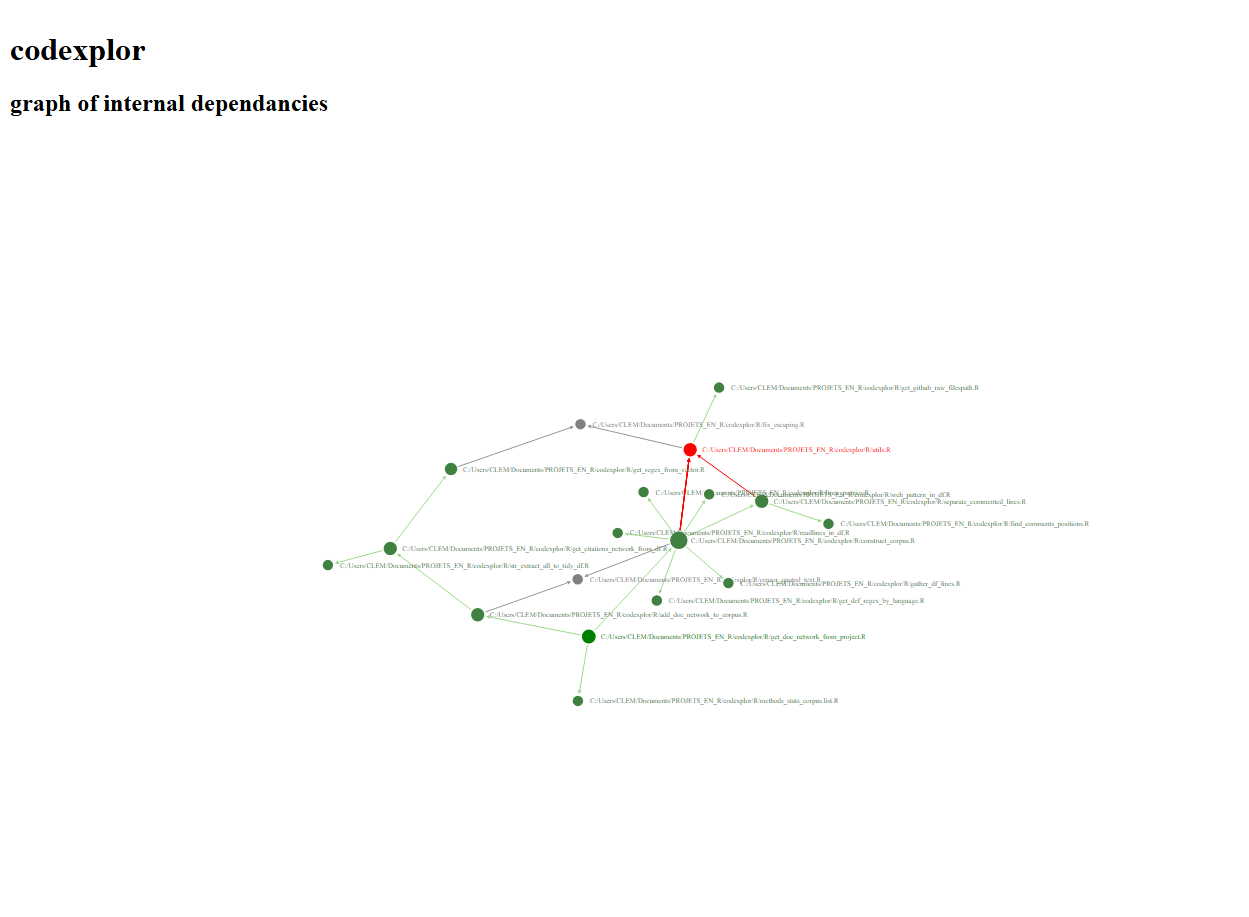
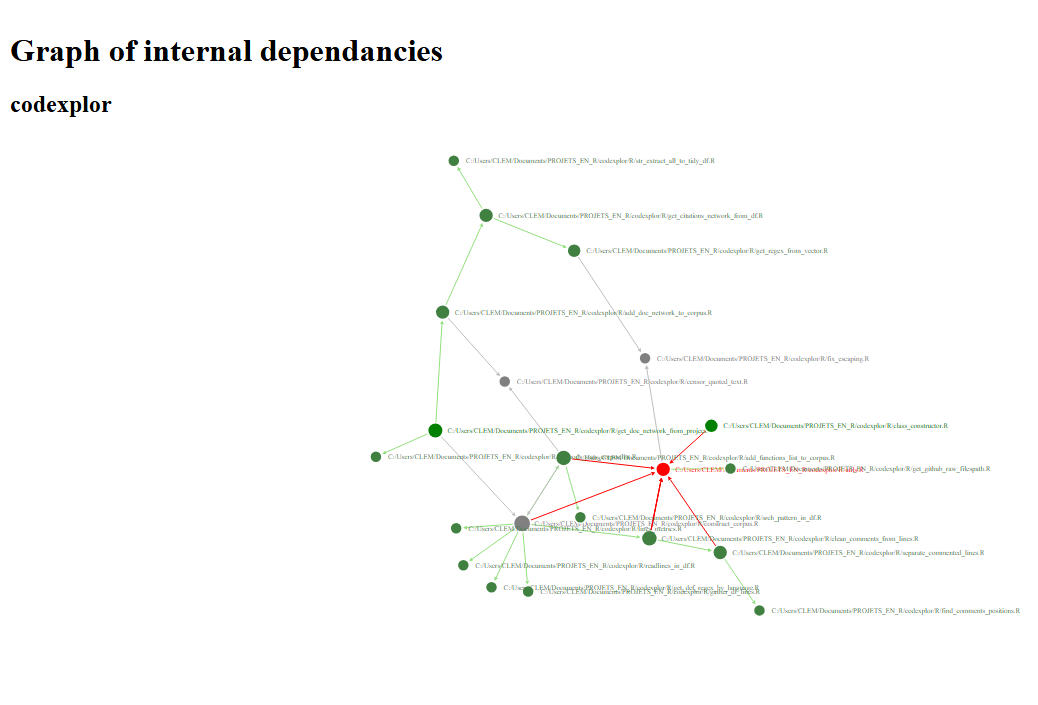
update readme

diff --git a/man/figures/network_codexplor_fn.html b/man/figures/network_codexplor_fn.html
@@ -1229,13 +1229,12 @@ return function(){for(var n=0,e=0;e<t;++e)n+=Math.random();return n}},um=functio
 </head>
 <body style="background-color: white;">
 <div id="htmlwidget_container">
-  <h1>codexplor</h1>
-  <h2>graph of internal dependancies</h2>
-  <div class="forceNetwork html-widget html-fill-item" id="htmlwidget-ac90f4d7289b88ae1a1c" style="width:960px;height:500px;"></div>
-  <div style="position:floating; top:10px; left:10px; background:white; padding:10px; border:0px;">
-  <strong>Colors (indegree)</strong><br></div>
+  <h1>Graph of internal dependancies</h1>
+  <h2>codexplor</h2>
+  <div class="forceNetwork html-widget html-fill-item" id="htmlwidget-4c94bd5046172d007002" style="width:960px;height:500px;"></div>
+  <h3>Color and links symbolize indegrees</h3>
 </div>
-<script type="application/json" data-for="htmlwidget-ac90f4d7289b88ae1a1c">{"x":{"links":{"source":[0,1,2,0,3,4,5,2,1,2,5,6,7,2,0,2,2,2,7,2,2,2,2,3,2],"target":[1,9,9,2,11,12,12,13,7,14,15,16,4,10,8,17,3,18,19,5,5,5,5,5,5],"colour":["#9CDA8A","#959595","#959595","#9CDA8A","#9CDA8A","#959595","#959595","#9CDA8A","#9CDA8A","#9CDA8A","#9CDA8A","#9CDA8A","#9CDA8A","#9CDA8A","#9CDA8A","#9CDA8A","#9CDA8A","#9CDA8A","#9CDA8A","#FF0000","#FF0000","#FF0000","#FF0000","#FF0000","#FF0000"]},"nodes":{"name":["C:/Users/CLEM/Documents/PROJETS_EN_R/codexplor/R/get_doc_network_from_project.R","C:/Users/CLEM/Documents/PROJETS_EN_R/codexplor/R/add_doc_network_to_corpus.R","C:/Users/CLEM/Documents/PROJETS_EN_R/codexplor/R/construct_corpus.R","C:/Users/CLEM/Documents/PROJETS_EN_R/codexplor/R/separate_commented_lines.R","C:/Users/CLEM/Documents/PROJETS_EN_R/codexplor/R/get_regex_from_vector.R","C:/Users/CLEM/Documents/PROJETS_EN_R/codexplor/R/utils.R","C:/Users/CLEM/Documents/PROJETS_EN_R/codexplor/R/get_networkd3_from_igraph.R","C:/Users/CLEM/Documents/PROJETS_EN_R/codexplor/R/get_citations_network_from_df.R","C:/Users/CLEM/Documents/PROJETS_EN_R/codexplor/R/methods_stats_corpus.list.R","C:/Users/CLEM/Documents/PROJETS_EN_R/codexplor/R/censor_quoted_text.R","C:/Users/CLEM/Documents/PROJETS_EN_R/codexplor/R/lines_metrics.R","C:/Users/CLEM/Documents/PROJETS_EN_R/codexplor/R/find_comments_positions.R","C:/Users/CLEM/Documents/PROJETS_EN_R/codexplor/R/fix_escaping.R","C:/Users/CLEM/Documents/PROJETS_EN_R/codexplor/R/gather_df_lines.R","C:/Users/CLEM/Documents/PROJETS_EN_R/codexplor/R/get_def_regex_by_language.R","C:/Users/CLEM/Documents/PROJETS_EN_R/codexplor/R/get_github_raw_filespath.R","C:/Users/CLEM/Documents/PROJETS_EN_R/codexplor/R/get_igraph_from_df.R","C:/Users/CLEM/Documents/PROJETS_EN_R/codexplor/R/readlines_in_df.R","C:/Users/CLEM/Documents/PROJETS_EN_R/codexplor/R/srch_pattern_in_df.R","C:/Users/CLEM/Documents/PROJETS_EN_R/codexplor/R/str_extract_all_to_tidy_df.R"],"group":[0,1,1,1,1,6,0,1,1,2,1,1,2,1,1,1,1,1,1,1],"nodesize":[3,2,12,2,1,2,1,2,0,0,0,0,0,0,0,0,0,0,0,0]},"options":{"NodeID":"name","Group":"indegree","colourScale":"d3.scaleLinear().domain([0, 2, 4, 6]).range([\"green\", \"grey\", \"black\", \"red\"]).clamp(true);","fontSize":7,"fontFamily":"serif","clickTextSize":17.5,"linkDistance":50,"linkWidth":"function(d) { return 1; }","charge":-200,"opacity":1,"zoom":true,"legend":false,"arrows":true,"nodesize":true,"radiusCalculation":" Math.sqrt(d.nodesize)+6","bounded":true,"opacityNoHover":0.9,"clickAction":null}},"evals":[],"jsHooks":[]}</script>
-<script type="application/htmlwidget-sizing" data-for="htmlwidget-ac90f4d7289b88ae1a1c">{"viewer":{"width":450,"height":350,"padding":10,"fill":true},"browser":{"width":960,"height":500,"padding":10,"fill":true}}</script>
+<script type="application/json" data-for="htmlwidget-4c94bd5046172d007002">{"x":{"links":{"source":[0,1,2,3,1,3,0,6,7,8,1,2,1,8,9,10,1,0,1,5,3,10,3,5,1,5,4,5,6],"target":[2,3,12,12,5,1,1,14,15,15,16,10,17,18,19,7,13,11,20,6,21,22,8,8,8,8,8,8,8],"colour":["#91E07C","#91E07C","#BEBEBE","#BEBEBE","#91E07C","#BEBEBE","#BEBEBE","#91E07C","#BEBEBE","#BEBEBE","#91E07C","#91E07C","#91E07C","#91E07C","#91E07C","#91E07C","#91E07C","#91E07C","#91E07C","#91E07C","#91E07C","#91E07C","#FF0000","#FF0000","#FF0000","#FF0000","#FF0000","#FF0000","#FF0000"]},"nodes":{"name":["C:/Users/CLEM/Documents/PROJETS_EN_R/codexplor/R/get_doc_network_from_project.R","C:/Users/CLEM/Documents/PROJETS_EN_R/codexplor/R/construct_corpus.R","C:/Users/CLEM/Documents/PROJETS_EN_R/codexplor/R/add_doc_network_to_corpus.R","C:/Users/CLEM/Documents/PROJETS_EN_R/codexplor/R/add_functions_list_to_corpus.R","C:/Users/CLEM/Documents/PROJETS_EN_R/codexplor/R/class_constructor.R","C:/Users/CLEM/Documents/PROJETS_EN_R/codexplor/R/clean_comments_from_lines.R","C:/Users/CLEM/Documents/PROJETS_EN_R/codexplor/R/separate_commented_lines.R","C:/Users/CLEM/Documents/PROJETS_EN_R/codexplor/R/get_regex_from_vector.R","C:/Users/CLEM/Documents/PROJETS_EN_R/codexplor/R/utils.R","C:/Users/CLEM/Documents/PROJETS_EN_R/codexplor/R/get_networkd3_from_igraph.R","C:/Users/CLEM/Documents/PROJETS_EN_R/codexplor/R/get_citations_network_from_df.R","C:/Users/CLEM/Documents/PROJETS_EN_R/codexplor/R/methods_stats_corpus.list.R","C:/Users/CLEM/Documents/PROJETS_EN_R/codexplor/R/censor_quoted_text.R","C:/Users/CLEM/Documents/PROJETS_EN_R/codexplor/R/lines_metrics.R","C:/Users/CLEM/Documents/PROJETS_EN_R/codexplor/R/find_comments_positions.R","C:/Users/CLEM/Documents/PROJETS_EN_R/codexplor/R/fix_escaping.R","C:/Users/CLEM/Documents/PROJETS_EN_R/codexplor/R/gather_df_lines.R","C:/Users/CLEM/Documents/PROJETS_EN_R/codexplor/R/get_def_regex_by_language.R","C:/Users/CLEM/Documents/PROJETS_EN_R/codexplor/R/get_github_raw_filespath.R","C:/Users/CLEM/Documents/PROJETS_EN_R/codexplor/R/get_igraph_from_df.R","C:/Users/CLEM/Documents/PROJETS_EN_R/codexplor/R/readlines_in_df.R","C:/Users/CLEM/Documents/PROJETS_EN_R/codexplor/R/srch_pattern_in_df.R","C:/Users/CLEM/Documents/PROJETS_EN_R/codexplor/R/str_extract_all_to_tidy_df.R"],"group":[0,2,1,1,0,1,1,1,7,0,1,1,2,1,1,2,1,1,1,1,1,1,1],"nodesize":[3,7,2,4,1,4,2,1,2,1,2,0,0,0,0,0,0,0,0,0,0,0,0]},"options":{"NodeID":"name","Group":"indegree","colourScale":"d3.scaleLinear().domain([0, 2, 5, 7]).range([\"green\", \"grey\", \"black\", \"red\"]).clamp(true);","fontSize":7,"fontFamily":"serif","clickTextSize":17.5,"linkDistance":50,"linkWidth":"function(d) { return 1; }","charge":-200,"opacity":1,"zoom":true,"legend":false,"arrows":true,"nodesize":true,"radiusCalculation":" Math.sqrt(d.nodesize)+6","bounded":true,"opacityNoHover":0.9,"clickAction":null}},"evals":[],"jsHooks":[]}</script>
+<script type="application/htmlwidget-sizing" data-for="htmlwidget-4c94bd5046172d007002">{"viewer":{"width":450,"height":350,"padding":10,"fill":true},"browser":{"width":960,"height":500,"padding":10,"fill":true}}</script>
 </body>
 </html>

diff --git a/README.md b/README.md
@@ -46,17 +46,23 @@ library(codexplor)
 
  # 1) Construct a corpus and a Citations network
   corpus <- get_doc_network_from_project(folders = getwd(), languages = "R" )
+#> Warning in srch_pattern_in_df(df = codes_list, content_col_name =
+#> "exposed_content", : ==> Have returned duplicated line(s) : you've matched
+#> several matches on a single line ! :x
+#> Duplicated row number are : 
+#> 1
    # return a corpus.list object with 4 data.frames :
-  # => 2 corpus.lines
-  # => 1 corpus.nodelist 
-  # => 1 citations.network
+  # => 2 corpus.lines (codes & comments)
+  # => 2 corpus.nodelist (files & functions)
+  # => 1 citations.network (internal.dependencies)
 ```
 
 ``` r
-# 2) Produce an interactive dataviz'
+# 2) Produce an interactive dataviz' with the network of internal.dependencies
 dataviz <- get_networkd3_from_igraph(corpus$internal.dependencies
-, title_h1 = "codexplor"
-, subtitle_h2 = "graph of internal dependancies" ) 
+, title_h1 = "Graph of internal dependancies"
+, subtitle_h2 = "codexplor"
+, endnotes_h3 = "Color and links symbolize indegrees") 
 ```
 
 <img src="man/figures/force_network.png" width="100%" />
